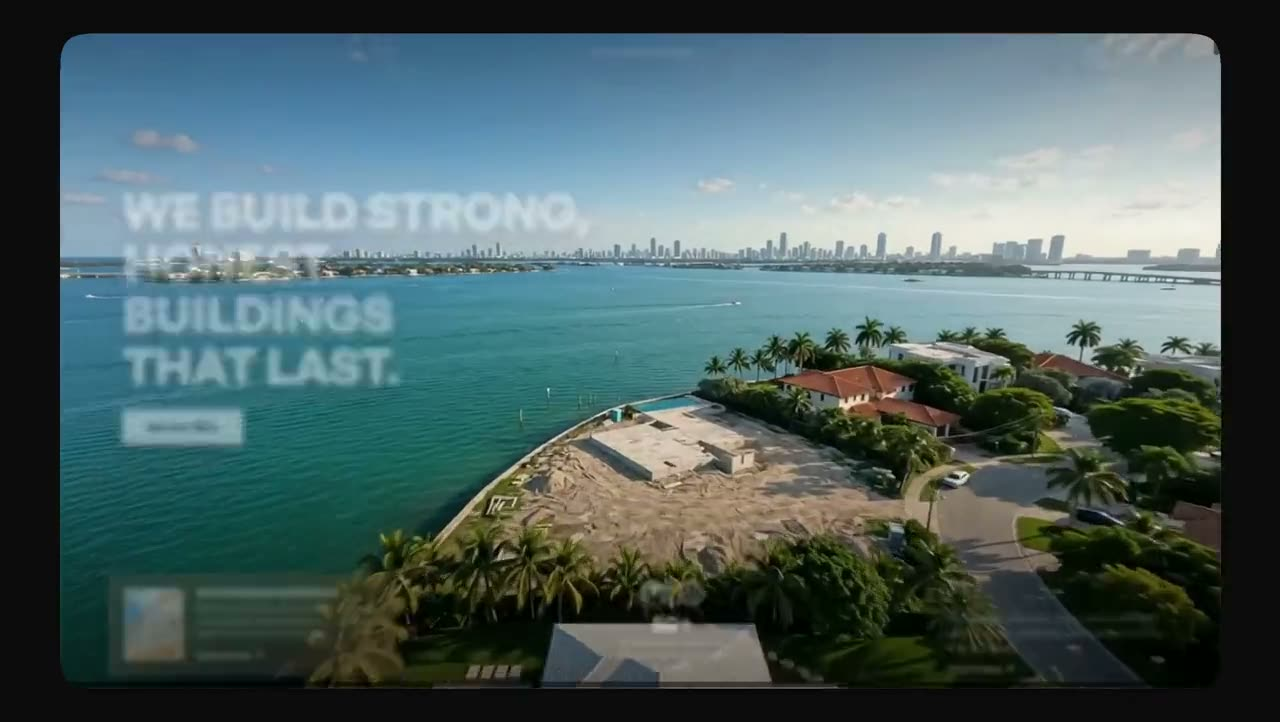
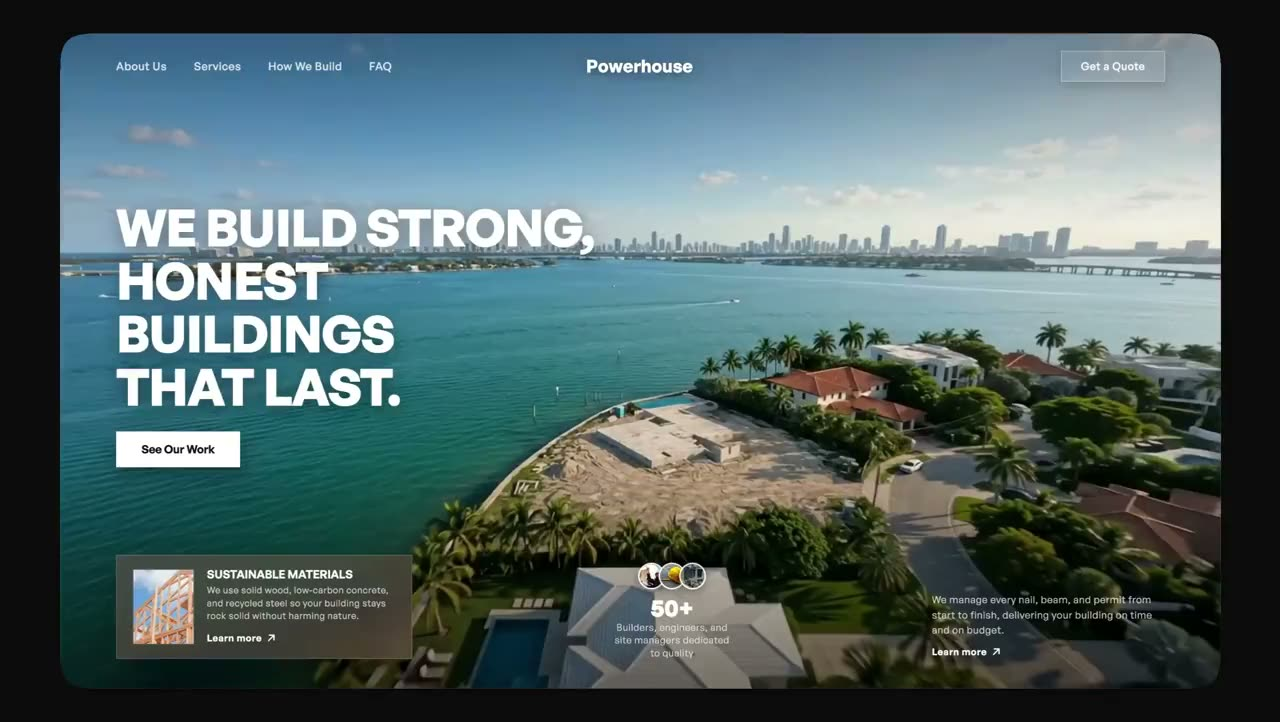
Simplify header, calm buttons, align page padding
Drop the navigation for a logo-only header since this is a single
landing page, make WhatsApp buttons plain, keep orange for labels only,
line every section up on the same side padding with static project
cards, and use a Powerhouse cover frame where the headline is fully
visible.

diff --git a/index.html b/index.html
@@ -267,50 +267,6 @@
             style="text-decoration: none;"
             ><div style="font-size: 24px; font-weight: 700; color: #fff; letter-spacing: -0.5px;">SALEHBIZ</div></a
           >
-          <nav role="navigation" class="nav-menu-block w-nav-menu">
-            <div class="nav-menu-block-inner">
-              <div class="nav-menu-top-block">
-                <div style="font-size: 24px; font-weight: 700; color: #fff; letter-spacing: -0.5px;">SALEHBIZ</div>
-              </div>
-              <div class="nav-links-wrapper">
-                <a href="#Works" class="nav-link w-inline-block"
-                  ><div class="nav-link-dot"></div>
-                  <div>Work</div></a
-                ><a href="#Process" class="nav-link w-inline-block"
-                  ><div class="nav-link-dot"></div>
-                  <div>Process</div></a
-                ><a href="#CTA" class="nav-link w-inline-block"
-                  ><div class="nav-link-dot"></div>
-                  <div>Contact</div></a
-                >
-              </div>
-              <div class="nav-cta-block-mobile">
-                <a href="#CTA" class="button-primary w-button" style="text-align: center;"
-                  >Let’s Talk</a
-                >
-              </div>
-            </div>
-          </nav>
-          <div class="nav-cta-block" style="display: flex; gap: 12px; align-items: center;">
-            <a href="#CTA" class="button-primary w-button" style="padding: 10px 18px; font-size: 14px;">Let’s Talk</a>
-          </div>
-          <div class="nav-menu-button w-nav-button">
-            <div
-              data-is-ix2-target="1"
-              class="nav-menu-lottie"
-              data-w-id="fa16df0d-10e2-f613-51d7-52da510cab13"
-              data-animation-type="lottie"
-              data-src="cdn.prod.website-files.com/6745b25e58afc09807f9d3d0/675045a4684b61ee9a64dd08_nav-lottie.lottie"
-              data-loop="0"
-              data-direction="1"
-              data-autoplay="0"
-              data-renderer="svg"
-              data-default-duration="0"
-              data-duration="1.8333333333333333"
-              data-loading="eager"
-              data-ix2-initial-state="2"
-            ></div>
-          </div>
         </div>
       </div>
       <div class="main-wrapper">
@@ -336,18 +292,12 @@
                   >
                     We design and build clean websites and landing pages for businesses that want to look sharper, explain their offer clearly, and turn visitors into inquiries.
                   </p>
-                  <p
-                    style="font-size: 14px; font-weight: 500; color: #fe7701; margin-top: 16px;"
-                  >
-                    Clear design. Simple structure. Better first impressions.
-                  </p>
                   <div style="margin-top: 32px; display: flex; gap: 16px; justify-content: center; flex-wrap: wrap;">
                     <a
                       href="https://wa.me/971529101162?text=Hi%20Saleh,%20I%20want%20to%20discuss%20a%20website%20or%20landing%20page%20for%20my%20business."
                       target="_blank"
                       rel="noopener noreferrer"
-                      class="button-primary w-button"
-                      style="padding: 16px 28px; font-size: 16px;"
+                      class="wa-btn"
                       >Message on WhatsApp</a
                     >
                     <a
@@ -417,7 +367,7 @@
                   >
                   Cinematic websites that make your business look as good as it is.
                   <br /><br /><span class="about-text-light"
-                    >Your offer is already strong. Most websites make it look ordinary. We bring it to life with film-like visuals and smooth motion, explain what you do in seconds, and turn visitors into WhatsApp conversations.</span
+                    >Your offer is already strong. Most websites make it look ordinary. We give yours a look people remember, explain what you do in seconds, and turn visitors into leads.</span
                   >
                 </p>
               </div>
@@ -450,7 +400,7 @@
                           <video src="assets/videos/armani.mp4" poster="assets/posters/armani.jpg" preload="none" muted loop playsinline class="work-image work-video" style="background:#0c0c0d;"></video>
                         </div>
                         <div class="work-card-info">
-                          <h3 class="work-card-title">Armani by Velaarmon</h3>
+                          <h3 class="work-card-title">Armani</h3>
                           <button class="work-view-btn" onclick="var v=this.closest('.work-card').querySelector('video');if(v.paused){v.play();this.textContent='Pause ◼';}else{v.pause();this.textContent='View Project →';}">View Project →</button>
                         </div>
                       </div>
@@ -626,7 +576,7 @@
                         <div class="body-text-regular text-opecity-90" style="margin-bottom: 24px;">
                           You review the design, we refine it, then your website goes live.
                         </div>
-                        <a href="https://wa.me/971529101162?text=Hi%20Saleh,%20I%20want%20to%20discuss%20a%20website%20or%20landing%20page%20for%20my%20business." target="_blank" rel="noopener noreferrer" class="pricing-card-button w-button" style="background-color: #fe7701; color: #fff; border: none; text-align: center; display: block; width: 100%; border-radius: 12px; padding: 12px; font-weight: 600; text-decoration: none; box-sizing: border-box;">Start on WhatsApp</a>
+                        <a href="https://wa.me/971529101162?text=Hi%20Saleh,%20I%20want%20to%20discuss%20a%20website%20or%20landing%20page%20for%20my%20business." target="_blank" rel="noopener noreferrer" class="wa-btn wa-btn-block">Start on WhatsApp</a>
                       </div>
                     </div>
                   </div>
@@ -642,9 +592,7 @@
             </div>
             <h2 class="contact-simple-title">Need a website or landing page?</h2>
             <p class="contact-simple-sub">Tell us what you want to build and we’ll turn it into a clean online page.</p>
-            <a href="https://wa.me/971529101162?text=Hi%20Saleh,%20I%20want%20to%20discuss%20a%20website%20or%20landing%20page%20for%20my%20business." target="_blank" rel="noopener noreferrer" class="contact-wa-btn">
-              <svg width="22" height="22" viewBox="0 0 24 24" fill="currentColor" aria-hidden="true"><path d="M12.04 2C6.58 2 2.13 6.45 2.13 11.91c0 1.75.46 3.45 1.32 4.95L2.05 22l5.25-1.38c1.45.79 3.08 1.21 4.74 1.21 5.46 0 9.91-4.45 9.91-9.91C21.95 6.45 17.5 2 12.04 2zm5.8 14.03c-.25.69-1.44 1.32-1.98 1.37-.51.05-.99.24-3.33-.69-2.82-1.11-4.6-4-4.74-4.18-.14-.19-1.13-1.5-1.13-2.87 0-1.36.72-2.03.97-2.31.25-.28.55-.35.74-.35l.53.01c.17 0 .4-.06.62.48.25.6.85 2.07.92 2.22.07.15.12.32.02.51-.09.19-.14.31-.28.48-.14.16-.29.37-.42.49-.14.14-.28.29-.12.57.16.28.72 1.19 1.55 1.93 1.06.95 1.96 1.24 2.24 1.38.28.14.44.12.6-.07.16-.19.69-.81.88-1.09.18-.28.37-.23.62-.14.25.09 1.6.76 1.87.9.28.14.46.21.53.32.07.12.07.67-.18 1.36z"/></svg>
-              Chat on WhatsApp
+            <a href="https://wa.me/971529101162?text=Hi%20Saleh,%20I%20want%20to%20discuss%20a%20website%20or%20landing%20page%20for%20my%20business." target="_blank" rel="noopener noreferrer" class="wa-btn wa-btn-lg">Chat on WhatsApp
             </a>
             <p class="contact-simple-note">Usually replies within a few hours.</p>
             <div class="contact-email-line">

diff --git a/overrides.css b/overrides.css
@@ -484,19 +484,7 @@ h1 {
 .works .section-caption-text {
   opacity: 0.5;
 }
-/* Strip horizontal padding so videos go edge to edge */
-.works .page-vertical-padding,
-.works .container {
-  padding-left: 0 !important;
-  padding-right: 0 !important;
-  max-width: 100% !important;
-}
-/* Keep heading area padded */
-.works-top-block,
-.works-title-block {
-  padding-left: 20px !important;
-  padding-right: 20px !important;
-}
+
 
 /* Work cards — full bleed, edge to edge */
 .work-card {
@@ -794,28 +782,14 @@ h1 {
 
 /* Desktop: cap card width so each video isn't a full screen tall */
 @media screen and (min-width: 992px) {
-  .works-cards-block {
-    max-width: 1100px !important;
-    margin-left: auto !important;
-    margin-right: auto !important;
-    padding: 0 24px !important;
-    box-sizing: content-box !important;
-  }
+
   .work-card {
     width: 100% !important;
   }
   .work-image-block {
     border-radius: 16px !important;
   }
-  .works-top-block,
-  .works-title-block {
-    max-width: 1100px !important;
-    margin-left: auto !important;
-    margin-right: auto !important;
-    padding-left: 24px !important;
-    padding-right: 24px !important;
-    box-sizing: content-box !important;
-  }
+
 }
 
 /* Contact — single centered WhatsApp CTA */
@@ -908,4 +882,205 @@ h1 {
 }
 #Process .pricing-card-pro {
   border-color: rgba(254, 119, 1, 0.45) !important;
+}
+
+/* ==========================================================================
+   One accent: orange for section labels and every WhatsApp button
+   ========================================================================== */
+.section-caption,
+.works .section-caption,
+.form .section-caption,
+#Process .section-caption {
+  background: none !important;
+  border: none !important;
+  box-shadow: none !important;
+  padding: 0 !important;
+}
+.section-caption-text,
+.works .section-caption-text,
+.form .section-caption-text,
+#Process .section-caption-text {
+  color: #fe7701 !important;
+  opacity: 1 !important;
+  font-size: 14px !important;
+  font-weight: 600 !important;
+  letter-spacing: 2px !important;
+  text-transform: uppercase !important;
+}
+
+.wa-btn {
+  display: inline-flex !important;
+  align-items: center;
+  justify-content: center;
+  gap: 10px;
+  background: #fe7701 !important;
+  color: #ffffff !important;
+  font-size: 16px;
+  font-weight: 600;
+  line-height: 1;
+  padding: 16px 28px;
+  border: none !important;
+  border-radius: 60px !important;
+  text-decoration: none !important;
+  transition: background 0.2s ease, transform 0.2s ease;
+}
+.wa-btn:hover {
+  background: #ff8a24 !important;
+  transform: translateY(-2px);
+}
+.wa-btn-lg {
+  font-size: 17px;
+  padding: 18px 36px;
+}
+.wa-btn-block {
+  display: flex !important;
+  width: 100%;
+  box-sizing: border-box;
+  padding: 14px 20px;
+}
+@media screen and (max-width: 479px) {
+  .wa-btn-lg { width: 100%; }
+}
+
+/* Header: menu left, logo centered, WhatsApp button right */
+.navbar .nav-container {
+  display: grid !important;
+  grid-template-columns: 1fr auto 1fr;
+  align-items: center;
+}
+.navbar .nav-brand {
+  grid-column: 2;
+  grid-row: 1;
+  justify-self: center;
+}
+.navbar .nav-menu-block {
+  grid-column: 1;
+  grid-row: 1;
+  justify-self: start;
+}
+.navbar .nav-menu-button {
+  grid-column: 1;
+  grid-row: 1;
+  justify-self: start;
+}
+.navbar .nav-cta-block {
+  grid-column: 3;
+  grid-row: 1;
+  justify-self: end;
+  display: flex !important;
+}
+.navbar .nav-links-wrapper {
+  padding-left: 0 !important;
+}
+.nav-wa-btn {
+  font-size: 14px;
+  padding: 10px 18px;
+  gap: 8px;
+}
+@media screen and (max-width: 479px) {
+  .nav-wa-btn {
+    padding: 10px 14px;
+  }
+}
+.nav-wa-btn { white-space: nowrap; }
+@media screen and (max-width: 767px) {
+  .nav-wa-btn {
+    width: 40px;
+    height: 40px;
+    padding: 0 !important;
+  }
+  .nav-wa-btn span { display: none; }
+  .nav-wa-btn svg { width: 20px; height: 20px; }
+}
+@media screen and (max-width: 991px) {
+  .navbar .nav-menu-top-block { display: none !important; }
+  .navbar .nav-menu-block-inner { padding-top: 72px !important; }
+}
+.nav-menu-button.w--open { filter: invert(1); }
+
+/* Header: logo only, centered */
+.navbar .nav-container {
+  display: flex !important;
+  justify-content: center !important;
+}
+
+/* WhatsApp buttons: calm, no orange */
+.wa-btn {
+  background: #1a1a1d !important;
+  color: #ffffff !important;
+  font-weight: 500 !important;
+}
+.wa-btn:hover {
+  background: #2a2a2e !important;
+  transform: none !important;
+}
+.works .wa-btn,
+#Process .wa-btn,
+.form .wa-btn {
+  background: #ffffff !important;
+  color: #0c0c0d !important;
+}
+.works .wa-btn:hover,
+#Process .wa-btn:hover,
+.form .wa-btn:hover {
+  background: rgba(255, 255, 255, 0.85) !important;
+}
+#Process .pricing-card-pro {
+  border-color: rgba(255, 255, 255, 0.08) !important;
+}
+
+/* Every section shares the same side padding; cards sit inside it */
+.about .page-vertical-padding > .about-content-wrapper {
+  max-width: none !important;
+  margin-left: 0 !important;
+  margin-right: 0 !important;
+}
+.work-image-block {
+  border-radius: 16px !important;
+}
+.work-card-info {
+  padding-left: 0 !important;
+  padding-right: 0 !important;
+}
+
+/* Project cards are static: no hover reactions */
+.work-card,
+.work-card *,
+.work-view-btn {
+  transition: none !important;
+}
+.work-card:hover .work-image,
+.work-card:hover .work-video,
+.work-card:hover .work-image-block {
+  transform: scale(1.104) !important;
+}
+.work-card:hover .work-image-block {
+  transform: none !important;
+}
+.work-view-btn:hover {
+  background: rgba(255, 255, 255, 0.08) !important;
+}
+.about {
+  padding-left: 0 !important;
+  padding-right: 0 !important;
+}
+.work-card {
+  width: 100% !important;
+  max-width: none !important;
+}
+@media screen and (max-width: 479px) {
+  .intro-video {
+    padding-left: 15px !important;
+    padding-right: 15px !important;
+  }
+}
+.works-cards-block {
+  width: 100% !important;
+  align-self: stretch !important;
+}
+@media screen and (min-width: 480px) and (max-width: 991px) {
+  .intro-video {
+    padding-left: 20px !important;
+    padding-right: 20px !important;
+  }
 }
